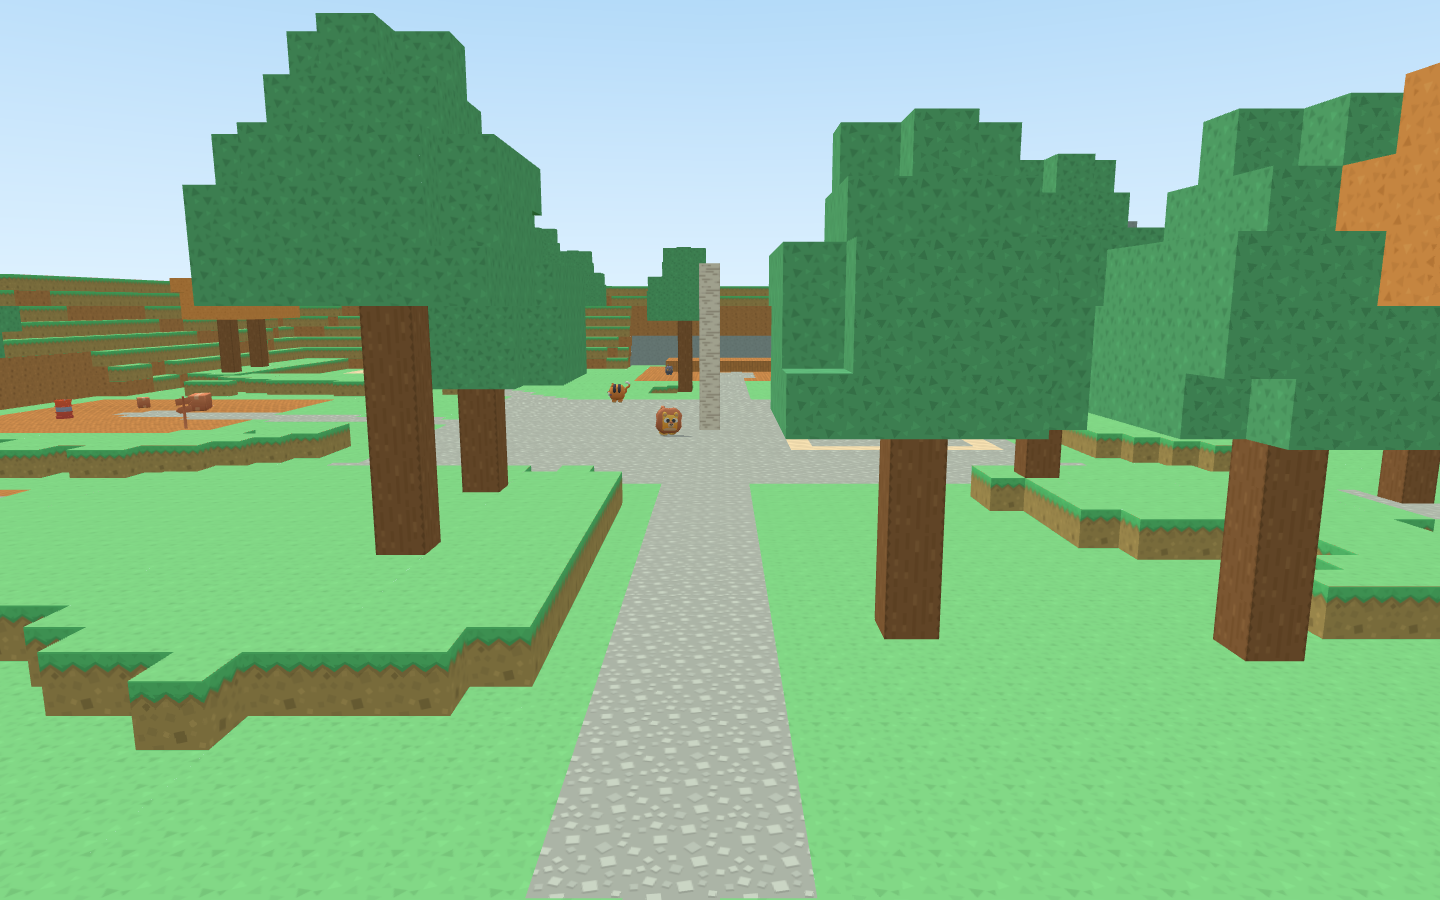
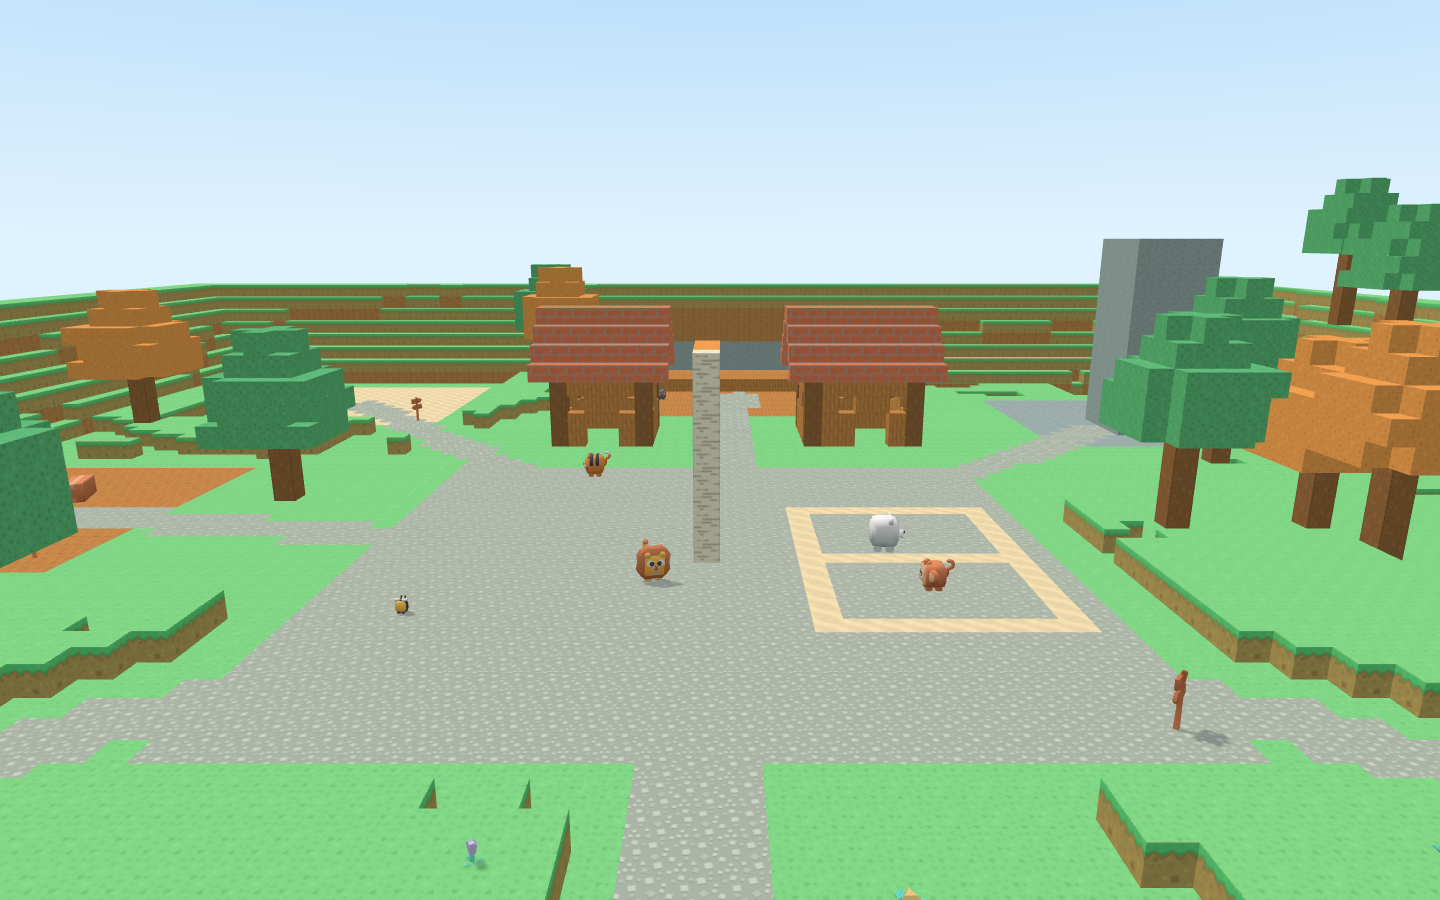
feat(world): give the school map its classrooms, gate and lawn so it reads as a school
The Trường học map had only trees and paths between its zones, so its region
backdrop looked like the forest. It now has two red-roofed classroom wings
behind the schoolyard (the world map's school at full size), a brick gate in a
low school wall and an open lawn with flower beds, and the backdrop looks from
inside the gate across the yard to the classrooms.

diff --git a/tools/world/generate-school-map.ts b/tools/world/generate-school-map.ts
@@ -1,5 +1,6 @@
-// Generates "Trường học" (the Toán region) from a fixed seed: a school gate, the paved schoolyard with
-// its flagpole and football pitch, and six more zones around it, one per Toán topic, joined by stone
+// Generates "Trường học" (the Toán region) from a fixed seed: a school gate in a low wall, an open lawn
+// with flower beds, the paved schoolyard with its flagpole and football pitch, two classroom wings behind
+// it (the overview island's school, at full size), and six more zones around it, one per Toán topic, joined by stone
 // paths with no gates between them (children roam freely). Each zone has its own floor and a signpost
 // with its name. Quest characters stand in their zone, tagged with the topic (chapter) whose quests
 // use them. Output: assets/generated/world/truong-hoc/{chunks.bin, entities.json}
@@ -14,6 +15,7 @@ import { modelScales } from './model-scales';
 import { createRng, fbm, hashSeed } from './noise';
 import { distanceToPath, pathColumns, type Point } from './structures/path';
 import { cellsIn, placeQuestTargets, readQuests, targetUses } from './chapters/place-quest-targets';
+import { placeHouse } from './structures/buildings';
 import { placeTree, treeHeight } from './structures/tree';
 
 export const MAP_ID = 'truong-hoc';
@@ -37,6 +39,7 @@ const MODEL_HEIGHT: Record<string, number> = {
   [`${PACK.nature}/flower_yellowB.glb`]: 0.5,
   [`${PACK.nature}/flower_purpleA.glb`]: 0.5,
   [`${PACK.nature}/plant_bush.glb`]: 1.0,
+  [`${PACK.nature}/plant_bushSmall.glb`]: 0.7,
   [`${PACK.pets}/animal-lion.glb`]: 1.3,
   [`${PACK.pets}/animal-monkey.glb`]: 1.1,
 };
@@ -57,6 +60,17 @@ export const ZONES: ReadonlyArray<{ id: string; name: string; topic: number; x: 
   { id: 'hoi-truong', name: 'Hội trường', topic: 7, x: 46, z: 82, half: 8, floor: 'planks' },
 ];
 const GATE = { x: 48, z: 12 };
+/** The gate's pillars stand this far either side of the path; the school wall runs on to WALL_HALF. */
+const GATE_HALF = 3;
+const WALL_HALF = 18;
+/** Open lawn between the gate and the yard: no trees, so the gate looks onto the yard and the classrooms. */
+const LAWN = { x0: 28, z0: 4, x1: 68, z1: 32 };
+/** Classroom wings (x0, z0, width, depth) behind the yard, either side of the path to the hall; doors face the yard (-z). */
+export const CLASSROOMS: ReadonlyArray<{ x0: number; z0: number; w: number; d: number }> = [
+  { x0: 36, z0: 65, w: 7, d: 6 },
+  { x0: 52, z0: 65, w: 6, d: 6 },
+];
+const WALL_HEIGHT = 4;
 
 export async function generateSchool(): Promise<{ world: VoxelWorld; entities: WorldEntities }> {
   const table = await readJson(path.join(REPO_ROOT, 'content/blocks.json'), blockTableSchema);
@@ -65,7 +79,7 @@ export async function generateSchool(): Promise<{ world: VoxelWorld; entities: W
     if (!block) throw new Error(`block ${name} missing from content/blocks.json`);
     return block.id;
   };
-  const B = { grass: id('grass'), dirt: id('dirt'), stone: id('stone'), sand: id('sand'), log: id('log'), leaves: id('leaves'), planks: id('planks'), path: id('path'), rock: id('rock-moss'), autumn: id('leaves-autumn'), birch: id('birch-log') };
+  const B = { grass: id('grass'), dirt: id('dirt'), stone: id('stone'), sand: id('sand'), log: id('log'), leaves: id('leaves'), planks: id('planks'), path: id('path'), rock: id('rock-moss'), autumn: id('leaves-autumn'), birch: id('birch-log'), brickRed: id('brick-red'), brickGrey: id('brick-grey'), woodRed: id('wood-red') };
   const scales = await modelScales(MODEL_HEIGHT, MODEL_ANIMATION);
   const scaleOf = (model: string): number => scales.get(model) ?? 1;
 
@@ -80,6 +94,13 @@ export async function generateSchool(): Promise<{ world: VoxelWorld; entities: W
   const routes: Point[][] = [[[GATE.x, GATE.z], [yard.x, yard.z]], ...ZONES.slice(1).map((zn): Point[] => [[yard.x, yard.z], [zn.x, zn.z]])];
   const pathCells = new Set(routes.flatMap((r) => [...pathColumns(r, 1.3)]));
   const nearPath = (x: number, z: number) => routes.some((r) => distanceToPath(r, x, z) < 3);
+  /** Inside a classroom wing, eaves and `pad` included. */
+  const inClassroom = (x: number, z: number, pad = 0) => CLASSROOMS.some((c) => x >= c.x0 - 1 - pad && x <= c.x0 + c.w + pad && z >= c.z0 - 1 - pad && z <= c.z0 + c.d + pad);
+  for (const c of CLASSROOMS) {
+    for (let x = c.x0 - 1; x <= c.x0 + c.w; x++) for (let z = c.z0 - 1; z <= c.z0 + c.d; z++) {
+      if (nearPath(x, z) || inZone(x, z, 2)) throw new Error(`classroom at ${c.x0},${c.z0} would stand on a path or in a zone at ${x},${z}`);
+    }
+  }
 
   // 1. Terrain: level ground in the zones and along the paths, gentle rolls elsewhere, rim hills.
   const heights: number[][] = [];
@@ -89,7 +110,7 @@ export async function generateSchool(): Promise<{ world: VoxelWorld; entities: W
       let h = GROUND + fbm(seed, x / 22, z / 22) * 2;
       const edge = Math.min(x, z, sx - 1 - x, sz - 1 - z);
       if (edge < 8) h += (8 - edge) * 1.2;
-      if (inZone(x, z, 2) || nearPath(x, z)) h = GROUND;
+      if (inZone(x, z, 2) || nearPath(x, z) || inClassroom(x, z, 1)) h = GROUND;
       (heights[x] as number[])[z] = Math.round(Math.min(h, sy - 12));
     }
   }
@@ -115,6 +136,17 @@ export async function generateSchool(): Promise<{ world: VoxelWorld; entities: W
       if (Math.abs(dx) === 2 || Math.abs(dz) === 2) world.set(tower.x + dx, y, tower.z - 2 + dz, y >= GROUND + 9 && dz === 2 && Math.abs(dx) < 2 ? B.planks : B.stone);
     }
   }
+  // The classrooms, red-roofed like the school on the world map, and the gate in the school's low wall.
+  for (const c of CLASSROOMS) placeHouse(world, c.x0, c.z0, c.w, c.d, WALL_HEIGHT, GROUND + 1, { wall: B.planks, roof: B.brickRed, trim: B.log });
+  for (const side of [-1, 1]) {
+    for (let y = GROUND + 1; y <= GROUND + 5; y++) world.set(GATE.x + side * GATE_HALF, y, GATE.z, B.brickGrey);
+    for (let x = GATE.x + side * (GATE_HALF + 1); Math.abs(x - GATE.x) <= WALL_HALF; x += side) {
+      const y = surface(x, GATE.z) + 1;
+      world.set(x, y, GATE.z, B.brickRed);
+      if ((x - GATE.x) % 4 === 0) world.set(x, y + 1, GATE.z, B.brickGrey);
+    }
+  }
+  for (let dx = -GATE_HALF; dx <= GATE_HALF; dx++) world.set(GATE.x + dx, GROUND + 6, GATE.z, B.woodRed);
   const hall = ZONES.find((zn) => zn.id === 'hoi-truong');
   if (hall) for (let dx = -6; dx <= 6; dx++) for (let dz = 2; dz <= 6; dz++) world.set(hall.x + dx, GROUND + 1, hall.z + dz, B.planks);
 
@@ -123,7 +155,8 @@ export async function generateSchool(): Promise<{ world: VoxelWorld; entities: W
     for (let gz = 4; gz < sz - 4; gz += 8) {
       const x = Math.round(gx + (rng() - 0.5) * 5);
       const z = Math.round(gz + (rng() - 0.5) * 5);
-      if (x < 3 || z < 3 || x >= sx - 3 || z >= sz - 3 || inZone(x, z, 3) || nearPath(x, z) || Math.hypot(x - GATE.x, z - GATE.z) < 6) continue;
+      const onLawn = x >= LAWN.x0 && x <= LAWN.x1 && z >= LAWN.z0 && z <= LAWN.z1;
+      if (x < 3 || z < 3 || x >= sx - 3 || z >= sz - 3 || inZone(x, z, 3) || nearPath(x, z) || inClassroom(x, z, 3) || onLawn || Math.hypot(x - GATE.x, z - GATE.z) < 6) continue;
       if (rng() < 0.25) continue;
       placeTree(world, x, surface(x, z) + 1, z, treeHeight(rng), { log: B.log, leaves: rng() < 0.3 ? B.autumn : B.leaves }, rng);
     }
@@ -143,6 +176,12 @@ export async function generateSchool(): Promise<{ world: VoxelWorld; entities: W
     props.push({ model, position: place(x, z), yaw, scale: scaleOf(model) });
   };
   for (const zn of ZONES) addProp(`${PACK.survival}/signpost.glb`, zn.x - zn.half + 1, zn.z - zn.half + 1, 45);
+  // Flower beds and bushes either side of the way in, across the lawn.
+  const beds = [`${PACK.nature}/flower_redA.glb`, `${PACK.nature}/flower_yellowB.glb`, `${PACK.nature}/flower_purpleA.glb`];
+  for (let i = 0, z = GATE.z + 4; z <= LAWN.z1 - 2; z += 3, i++) {
+    for (const side of [-1, 1]) addProp(beds[(i + (side > 0 ? 1 : 0)) % 3] ?? '', GATE.x + side * 4, z, i * 30);
+  }
+  for (const [x, z] of [[GATE.x - 10, 20], [GATE.x + 10, 20], [GATE.x - 14, 28], [GATE.x + 14, 28]] as const) addProp(`${PACK.nature}/plant_bushSmall.glb`, x, z, 0);
   const canteen = ZONES.find((zn) => zn.id === 'cang-tin');
   if (canteen) for (let i = 0; i < 3; i++) addProp(`${PACK.survival}/workbench.glb`, canteen.x - 3 + i * 3, canteen.z + 2, 0);
   const workshop = ZONES.find((zn) => zn.id === 'xuong-do-choi');
@@ -198,6 +237,7 @@ export async function generateSchool(): Promise<{ world: VoxelWorld; entities: W
     landmarks: [
       ...ZONES.map((zn) => ({ id: zn.id, name: zn.name, position: [zn.x + 0.5, GROUND + 1, zn.z + 0.5] as [number, number, number] })),
       { id: 'cot-co', name: 'Cột cờ', position: [flag.x + 0.5, GROUND + 1, flag.z + 0.5] },
+      { id: 'lop-hoc', name: 'Lớp học', position: [(CLASSROOMS[0]?.x0 ?? 0) + 3.5, GROUND + 1, (CLASSROOMS[0]?.z0 ?? 0) - 1.5] },
       { id: 'san-bong', name: 'Sân bóng', position: [pitch.x + 0.5, GROUND + 1, pitch.z + 0.5] },
     ],
   };
